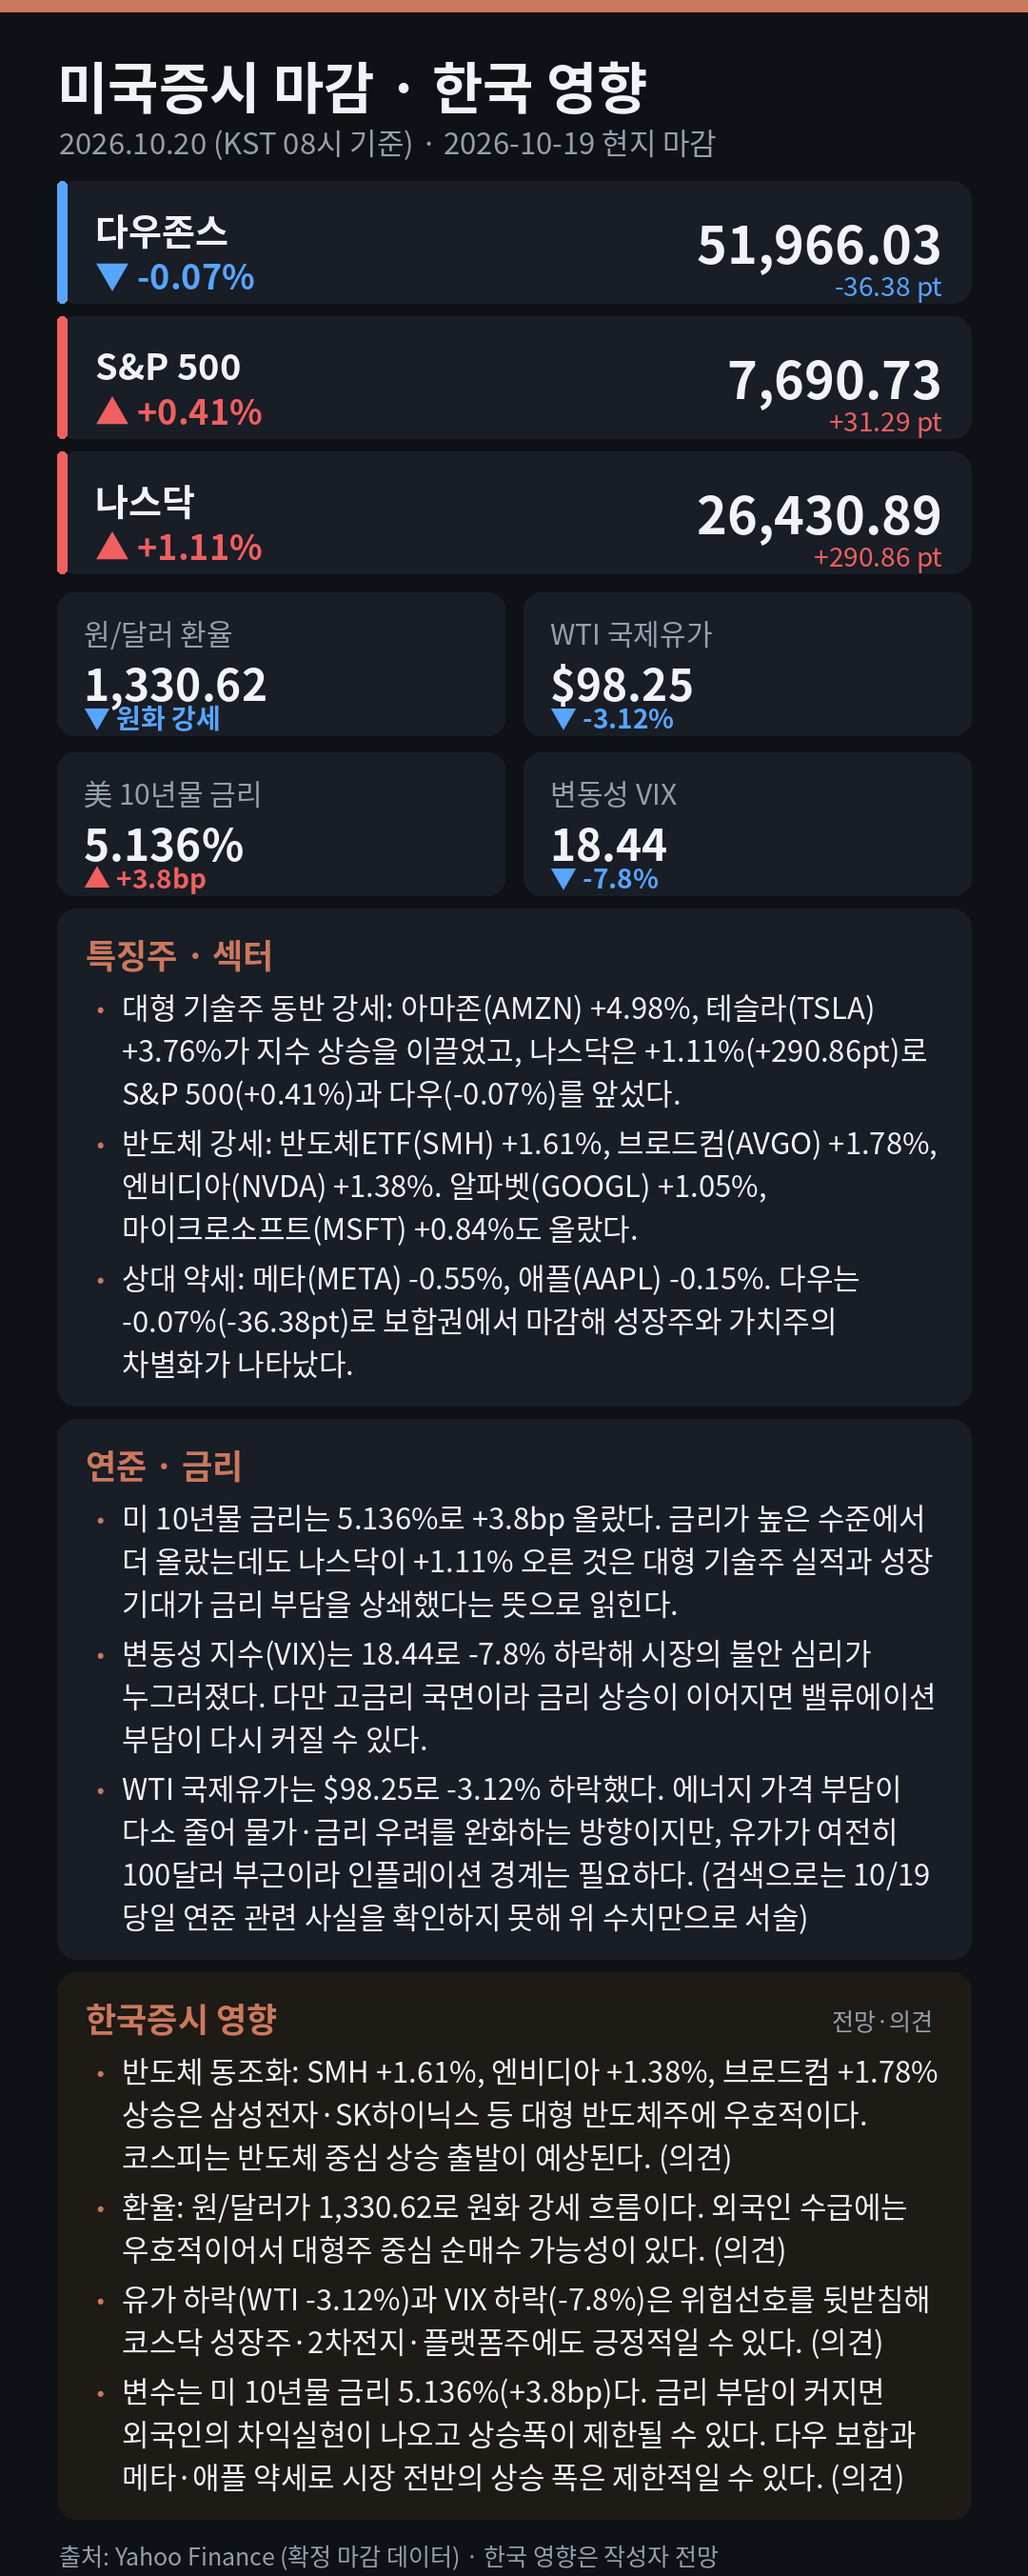
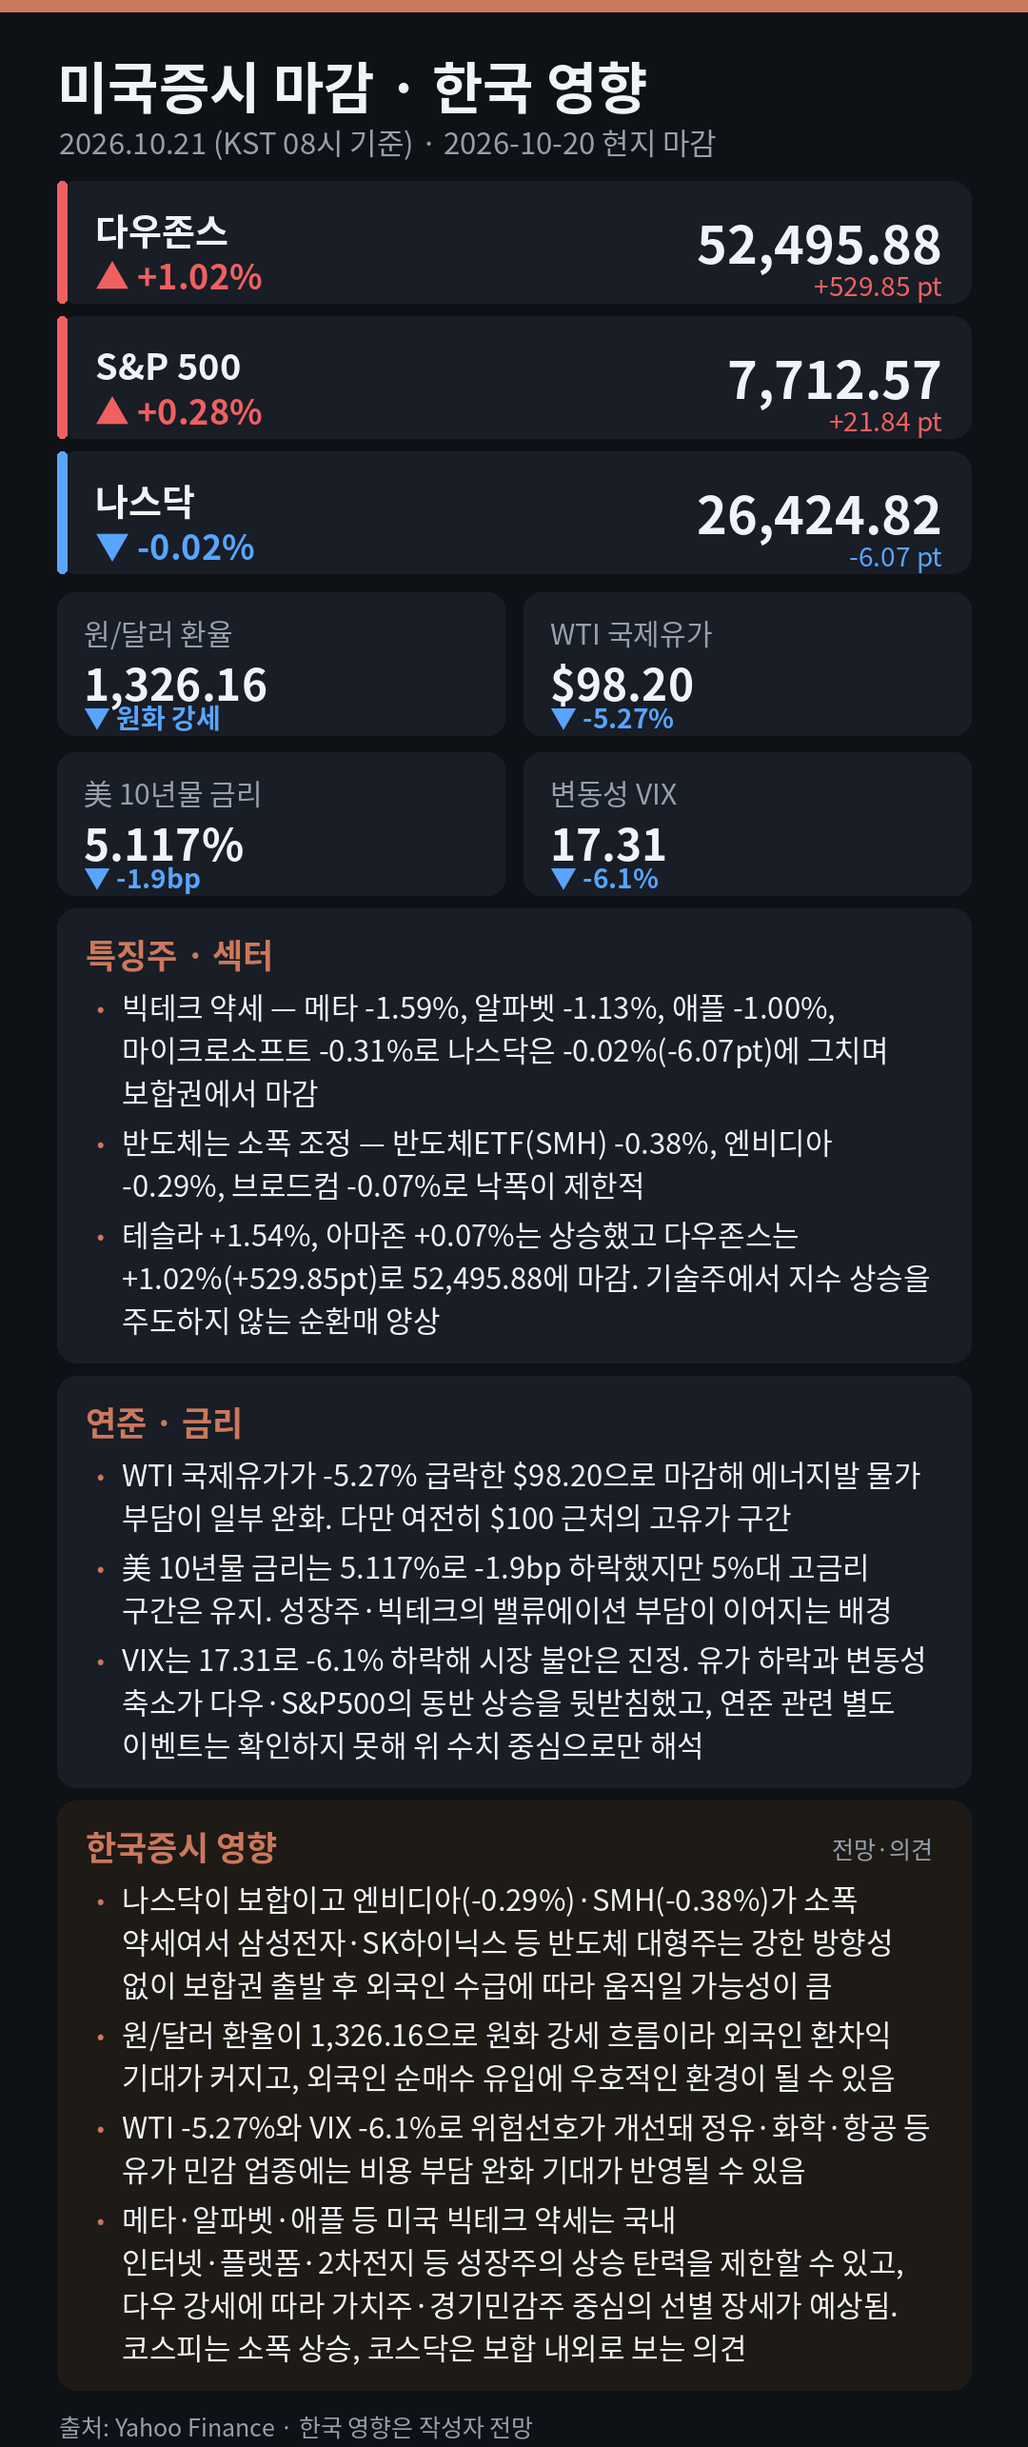
브리핑 2026-10-20 자동 발행

diff --git a/index.html b/index.html
@@ -14,8 +14,8 @@ a{color:#58a5ff;text-decoration:none} .s{color:#8a93a0;font-size:12px;float:righ
 </style></head><body><div class="wrap">
 <h1>미국증시 마감 브리핑</h1>
 <p class="sub">매일 아침(KST 08:02) 자동 업데이트 · 숫자는 Yahoo Finance 기준, 한국 영향은 전망</p>
-<img class="card" src="img/2026-10-19.png?v=2026-10-19" alt="2026-10-19 미국증시 마감"><p class="d">2026-10-19 현지 마감</p>
+<img class="card" src="img/2026-10-20.png?v=2026-10-20" alt="2026-10-20 미국증시 마감"><p class="d">2026-10-20 현지 마감</p>
 <h2>지난 브리핑</h2>
-<ul><li><a href="img/2026-10-19.png">2026-10-19</a> <span class="s">다우존스 -0.07% · S&P 500 +0.41% · 나스닥 +1.11%</span></li><li><a href="img/2026-10-16.png">2026-10-16</a> <span class="s">다우존스 -0.34% · S&P 500 -1.09% · 나스닥 -2.15%</span></li><li><a href="img/2026-10-15.png">2026-10-15</a> <span class="s">다우존스 +1.08% · S&P 500 +0.33% · 나스닥 +0.08%</span></li><li><a href="img/2026-10-14.png">2026-10-14</a> <span class="s">다우존스 -0.09% · S&P 500 -1.11% · 나스닥 -1.88%</span></li><li><a href="img/2026-10-13.png">2026-10-13</a> <span class="s">다우존스 -0.35% · S&P 500 -0.02% · 나스닥 -0.15%</span></li><li><a href="img/2026-10-12.png">2026-10-12</a> <span class="s">다우존스 +0.38% · S&P 500 -0.06% · 나스닥 -0.44%</span></li><li><a href="img/2026-10-09.png">2026-10-09</a> <span class="s">다우존스 +0.83% · S&P 500 +0.59% · 나스닥 +0.64%</span></li><li><a href="img/2026-10-08.png">2026-10-08</a> <span class="s">다우존스 +0.10% · S&P 500 -0.47% · 나스닥 -1.25%</span></li><li><a href="img/2026-10-07.png">2026-10-07</a> <span class="s">다우존스 -0.66% · S&P 500 -0.22% · 나스닥 -0.22%</span></li><li><a href="img/2026-10-06.png">2026-10-06</a> <span class="s">다우존스 +0.49% · S&P 500 +0.58% · 나스닥 +0.45%</span></li><li><a href="img/2026-10-05.png">2026-10-05</a> <span class="s">다우존스 +0.18% · S&P 500 +0.66% · 나스닥 +1.05%</span></li></ul>
+<ul><li><a href="img/2026-10-20.png">2026-10-20</a> <span class="s">다우존스 +1.02% · S&P 500 +0.28% · 나스닥 -0.02%</span></li><li><a href="img/2026-10-19.png">2026-10-19</a> <span class="s">다우존스 -0.07% · S&P 500 +0.41% · 나스닥 +1.11%</span></li><li><a href="img/2026-10-16.png">2026-10-16</a> <span class="s">다우존스 -0.34% · S&P 500 -1.09% · 나스닥 -2.15%</span></li><li><a href="img/2026-10-15.png">2026-10-15</a> <span class="s">다우존스 +1.08% · S&P 500 +0.33% · 나스닥 +0.08%</span></li><li><a href="img/2026-10-14.png">2026-10-14</a> <span class="s">다우존스 -0.09% · S&P 500 -1.11% · 나스닥 -1.88%</span></li><li><a href="img/2026-10-13.png">2026-10-13</a> <span class="s">다우존스 -0.35% · S&P 500 -0.02% · 나스닥 -0.15%</span></li><li><a href="img/2026-10-12.png">2026-10-12</a> <span class="s">다우존스 +0.38% · S&P 500 -0.06% · 나스닥 -0.44%</span></li><li><a href="img/2026-10-09.png">2026-10-09</a> <span class="s">다우존스 +0.83% · S&P 500 +0.59% · 나스닥 +0.64%</span></li><li><a href="img/2026-10-08.png">2026-10-08</a> <span class="s">다우존스 +0.10% · S&P 500 -0.47% · 나스닥 -1.25%</span></li><li><a href="img/2026-10-07.png">2026-10-07</a> <span class="s">다우존스 -0.66% · S&P 500 -0.22% · 나스닥 -0.22%</span></li><li><a href="img/2026-10-06.png">2026-10-06</a> <span class="s">다우존스 +0.49% · S&P 500 +0.58% · 나스닥 +0.45%</span></li></ul>
 <p class="foot">자동 생성 · Navis</p>
 </div></body></html>
